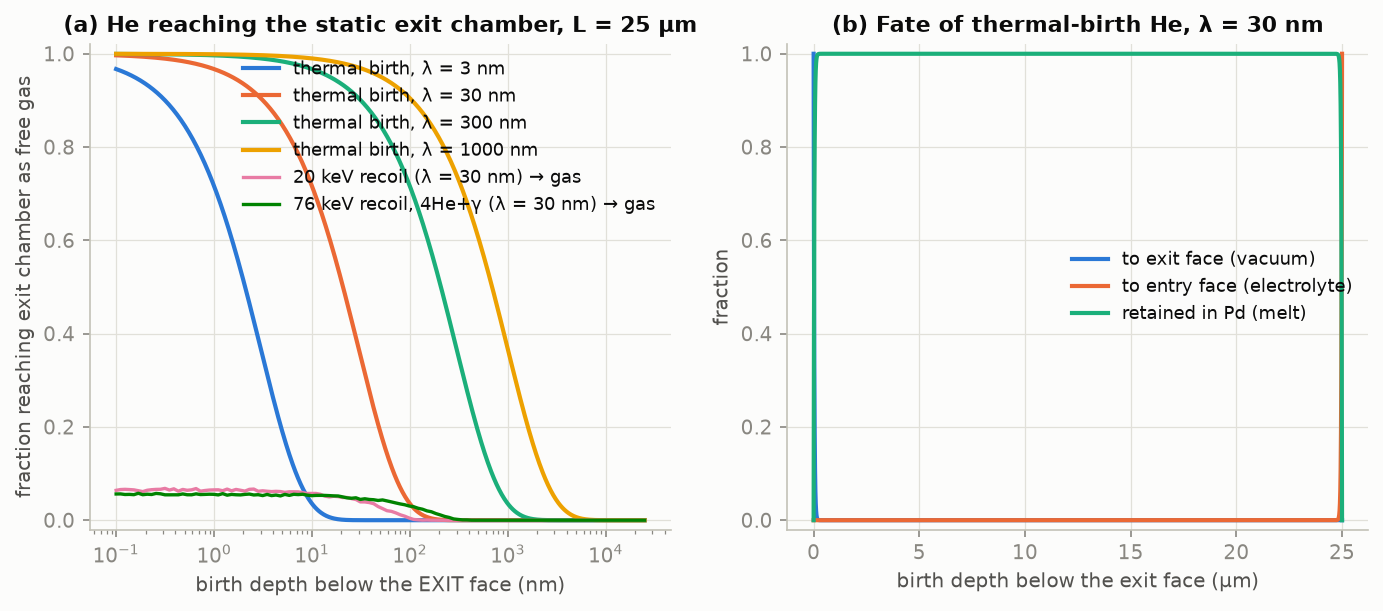
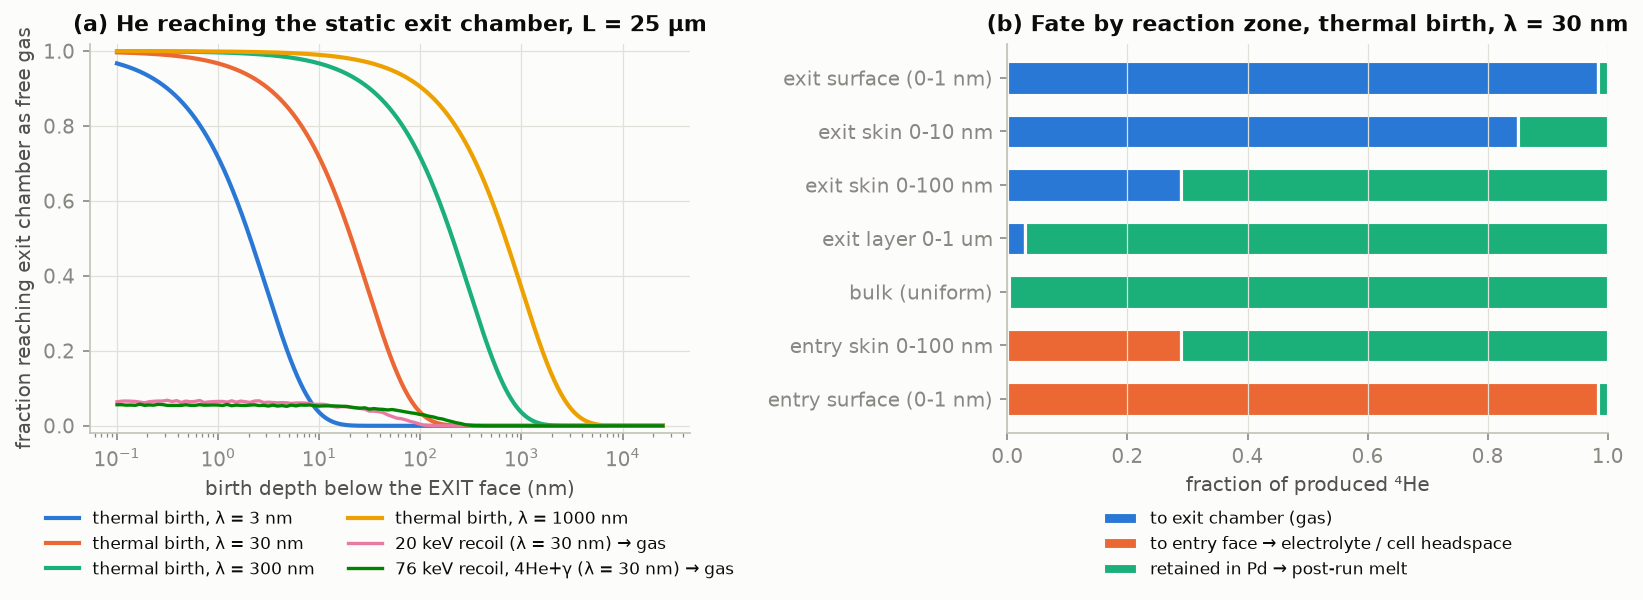
WIP: M8 update
Claude-Session: https://claude.ai/code/session_01UhtcJJuepH5roxPVCdThz4

Changed region(s): [[0.4664, 0.0, 0.9949, 0.96], [0.0, 0.03, 0.4975, 0.99], [0.9638, 0.9, 0.9949, 0.93]]

diff --git a/sim/m8_helium_accumulation.py b/sim/m8_helium_accumulation.py
@@ -462,17 +462,25 @@ ax[0].set_xlabel("birth depth below the EXIT face (nm)")
 ax[0].set_ylabel("fraction reaching exit chamber as free gas")
 ax[0].set_title("(a) He reaching the static exit chamber, L = 25 µm")
 ax[0].set_ylim(-0.02, 1.02)
-ax[0].legend(loc="upper right")
-z = np.linspace(0, L_NM, 1500)
-pe, pi = p_thermal(z, L_NM, 30.0)
-ax[1].plot(z / 1e3, pe, color=SERIES[0], label="to exit face (vacuum)")
-ax[1].plot(z / 1e3, pi, color=SERIES[1], label="to entry face (electrolyte)")
-ax[1].plot(z / 1e3, 1 - pe - pi, color=SERIES[2], label="retained in Pd (melt)")
-ax[1].set_xlabel("birth depth below the exit face (µm)")
-ax[1].set_ylabel("fraction")
-ax[1].set_title("(b) Fate of thermal-birth He, λ = 30 nm")
-ax[1].legend(loc="center right")
-ax[1].set_ylim(-0.02, 1.02)
+ax[0].legend(loc="upper center", bbox_to_anchor=(0.5, -0.16), ncol=2, fontsize=8)
+labs_b = [s_ for s_, _ in SCEN]
+yb = np.arange(len(labs_b))
+left = np.zeros(len(labs_b))
+for k, (key, col, nm) in enumerate([("exit_gas", SERIES[0], "to exit chamber (gas)"),
+                                    ("entry", SERIES[1], "to entry face → electrolyte / cell headspace"),
+                                    ("retained", SERIES[2], "retained in Pd → post-run melt")]):
+    w = np.array([RES[(25.0, 30.0, "thermal", s_)][key] for s_ in labs_b])
+    ax[1].barh(yb, w, left=left, color=col, height=0.62, edgecolor=SURF, linewidth=1.5, label=nm)
+    left += w
+ax[1].set_yticks(yb)
+ax[1].set_yticklabels(labs_b)
+ax[1].invert_yaxis()
+ax[1].set_xlim(0, 1)
+ax[1].set_xlabel("fraction of produced ⁴He")
+ax[1].set_title("(b) Fate by reaction zone, thermal birth, λ = 30 nm")
+ax[1].grid(axis="y", visible=False)
+ax[1].legend(loc="upper center", bbox_to_anchor=(0.5, -0.16), ncol=1, fontsize=8)
+fig.tight_layout()
 savefig(fig, "m8_release_vs_depth.png")
 
 # --- Figure 2: scenario summary (thermal lambda band + 76 keV)
@@ -488,7 +496,11 @@ cl = lambda a: np.clip(a, FLOOR, None)
 ax.barh(yy + 0.2, cl(th), height=0.36, color=SERIES[0], label="thermal birth, λ = 30 nm (whisker: λ = 3–300 nm)")
 ax.errorbar(cl(th), yy + 0.2, xerr=[cl(th) - cl(lo_), cl(hi_) - cl(th)], fmt="none",
             ecolor=INK2, elinewidth=1, capsize=2)
-ax.barh(yy - 0.2, cl(r76), height=0.36, color=SERIES[5], label="76 keV recoil (4He+γ), λ = 30 nm")
+ax.barh(yy - 0.2, cl(r76), height=0.36, color=SERIES[1], label="76 keV recoil (4He+γ), λ = 30 nm")
+for i_, v_ in enumerate(th):
+    if v_ < FLOOR:
+        ax.text(FLOOR * 2, yy[i_], "blind (< 1e-7): He goes to the electrolyte or stays in Pd",
+                va="center", fontsize=8, color=INK2)
 ax.set_xscale("log")
 ax.set_xlim(FLOOR, 1.5)
 ax.set_yticks(yy)
@@ -496,7 +508,7 @@ ax.set_yticklabels(labs)
 ax.invert_yaxis()
 ax.set_xlabel(f"fraction of produced 4He reaching the exit chamber as gas (floor {FLOOR:.0e})")
 ax.set_title("Release to the static exit chamber by reaction-zone location (L = 25 µm)")
-ax.legend(loc="lower right")
+ax.legend(loc="upper center", bbox_to_anchor=(0.45, -0.14), ncol=2)
 savefig(fig, "m8_release_scenarios.png")
 
 # ======================================================== 5. skin accumulation
@@ -893,25 +905,6 @@ say("ADR-002 arithmetic check: ADR says '~1e15 atoms per mJ'. Correct: 1 mJ = "
     f"{HE_PER_J*1e-3:.2e} He; the calorimetric floor 5-60 mW x 1 day = "
     f"{5e-3*DAY*HE_PER_J:.1e}-{60e-3*DAY*HE_PER_J:.1e} He.")
 
-# --- Figure 6: MD vs time
-fig, ax = plt.subplots(figsize=(8.6, 4.8))
-tt = np.logspace(np.log10(0.1), np.log10(30), 120)
-for i, mode in enumerate(MODES):
-    p = [md_atoms(mode, t * DAY) / (t * DAY) / HE_PER_J for t in tt]
-    ax.plot(tt, p, color=SERIES[i], label=mode)
-pmelt = 5 * melt_sig / (tt * DAY) / HE_PER_J
-ax.plot(tt, pmelt, color=SERIES[5], lw=1.6, label="post-run melt (retained He)")
-ax.axhspan(CAL_R6[0], CAL_R6[1], color=SERIES[7], alpha=0.10, lw=0)
-ax.axhline(CAL_R5, color=SERIES[7], lw=1)
-ax.text(0.11, 7e-3, "calorimetry: 5 mW (R5), 20–60 mW band (R6)", color=INK2, fontsize=8)
-ax.set_xscale("log"); ax.set_yscale("log")
-ax.set_xlabel("static accumulation time (days)")
-ax.set_ylabel("5σ minimum detectable power at 23.85 MeV/He (W)")
-ax.set_title("⁴He-equivalent detection floor, f_release = 1 (divide by f for real skins)")
-ax.set_ylim(1e-11, 1e-1)
-ax.legend(loc="upper right", fontsize=7.8)
-savefig(fig, "m8_mdp_vs_time.png")
-
 # ====================================================== 9. geometry numbers
 hdr("9. GEOMETRY NUMBERS")
 say("Instrument floor vs exit-chamber volume (H1 chain; background term unchanged):")
@@ -934,6 +927,98 @@ for j in JLIST:
         f"30 d {2*NEG_MASS[j][2]:8.3g} g")
 say("Recommended: ~50-100 g St 707/St 172 (CapaciTorr D400-D2000 class) supports 7-day windows")
 say("  at <=1-2 mA/cm2; higher flux needs dynamic pumping, shorter windows or a Pd-Ag permeator.")
+
+# ============================================ 10. ADR-002 rev 2: 1 atm D2 front
+hdr("10. ADR-002 REV 2 VARIANT: PRESSURE-BALANCED FRONT (~1 atm D2), PER-CELL SEALED")
+V_F = 0.030          # L, sealed front volume per cell (range 0.01-0.1)
+P_F = 1013.0         # mbar D2
+V_AL = 1.0e-3        # L, aliquot pipette on the front
+F_AL = V_AL / V_F
+n_front = P_F * V_F * ATOMS_PER_MBAR_L
+say(f"Front volume {V_F*1e3:.0f} cm3 at {P_F:.0f} mbar D2: inventory {n_front:.2e} molecules "
+    f"({P_F*V_F:.1f} mbar L); aliquot pipette {V_AL*1e3:.0f} cm3 -> fraction {F_AL:.3f}")
+say("Permeation-driven pressure rise if nothing removes D2 (A = 3 cm2):")
+for J in [1e14, 1e15, 1e16, 1e17]:
+    nd2 = J * A_MEM / 2
+    dp = nd2 * DAY / (V_F * ATOMS_PER_MBAR_L)
+    say(f"  J = {J:.0e} D/cm2/s ({J*e_C*1e3:.2f} mA/cm2): +{dp:9.1f} mbar/day"
+        f" = {nd2*DAY/ATOMS_PER_MBAR_L:8.2f} mbar L/day to remove")
+PERM_PDAG = 2e-8     # mol/(m s Pa^0.5), Pd-23Ag near 350 C [BK]
+Jpd = PERM_PDAG / 100e-6 * np.sqrt(101325.0) * NA / 2 / 1e4   # D2 / cm2 / s
+say(f"Pd-Ag (100 um, ~350 C) at 1 atm upstream, vacuum downstream: {Jpd:.1e} D2/cm2/s ->"
+    f" {1e16*A_MEM/2/Jpd:.1e} cm2 removes J = 1e16 -> a ~1 cm2 element with a downstream valve"
+    " is a He-tight pressure regulator")
+say("He-tight fill/make-up: D2 carrying x_He of helium adds per 100 mbar step in the front:")
+for xhe, lab in [(1e-6, "cylinder D2, 1 ppm He"), (1e-9, "1 ppb"), (1e-15, "Pd-Ag purified (seal-leak limited)")]:
+    n = 100 * V_F * ATOMS_PER_MBAR_L * xhe
+    say(f"  {lab:36s}: {n:9.2e} He per step = {n/HE_PER_J:8.1e} J-equivalent")
+n0 = n_front * 1e-6
+say(f"  initial 1 atm fill with 1 ppm He: {n0:.1e} He offset (= 1 mW for {n0/(1e-3*HE_PER_J)/DAY:.0f} d);"
+    f" 2 % aliquot precision on it -> sigma {0.02*n0:.1e} atoms")
+R_GAS = {"20 keV": 1.04, "76 keV": 3.23}   # mm, CATIMA (H target, per atom) in 1 atm D2 at 295 K
+if HAVE_CATIMA:
+    _h = catima.get_material(1)
+    nD = 2 * 101325 / (kB * T_ROOM) * 1e-6
+    for lab, E in [("20 keV", 0.020), ("76 keV", E_R_GAMMA / 1e3)]:
+        pr = catima.Projectile(4.001506, 2)
+        pr.T(E / 4.001506)
+        R_GAS[lab] = catima.range(pr, _h) / 1.008 * NA / nD * 10
+for lab, r in R_GAS.items():
+    say(f"  {lab} recoil He range in 1 atm D2: {r:.1f} mm -> ballistic recoils thermalise in the gas"
+        " (become measurable) if the screen/detectors are farther than this")
+P_RES_F = 3 * P_RES   # walls see mbar-level D2 from aliquots
+MODES_F = {
+    "H1f HR-QMS, 1 cm3 aliquot of 1 atm front": dict(
+        inst=MDPP_TYP * V_A * ATOMS_PER_MBAR_L / F_AL,
+        intf=0.3 * R_S * peak_transmission(500, 1e-3) * P_RES_F * V_A * ATOMS_PER_MBAR_L / F_AL),
+    "S1f external sector MS, 1 cm3 aliquot": dict(
+        inst=np.hypot(3e5, 1e6) / F_AL, intf=0.0),
+}
+say(f"Getter per aliquot: {P_F*V_AL:.2f} mbar L D2 = {P_F*V_AL/Q_MAX:.3f} g at the embrittlement limit;"
+    f" residual D2 after cleanup ~{P_RES_F:.1e} mbar (HR-QMS limit {REQ[ANALYZERS[1][0]][1]:.1e})")
+bud_f = [x for x in BUD["recommended"][0] if not x[0].startswith("NEG")]
+sigB_f = np.sqrt(sum(x[2] ** 2 for x in bud_f))
+say(f"Background (recommended build, no NEG in front): {sum(x[1] for x in bud_f):.2e} /day, sigma {sigB_f:.2e} /day")
+MD_F = {}
+say(f"{'mode':44s} {'sig_inst':>9s} | {'MD power (W), f = 1':>28s}")
+say(f"{'':44s} {'(atoms)':>9s} | {'1 d':>9s} {'7 d':>9s} {'30 d':>9s}")
+for mode, m in MODES_F.items():
+    f = lambda t: 5 * np.sqrt(m["inst"] ** 2 + m["intf"] ** 2 + (sigB_f / DAY * t) ** 2)
+    m["fun"] = f
+    ps = [f(t * DAY) / (t * DAY) / HE_PER_J for t in [1, 7, 30]]
+    MD_F[mode] = ps
+    say(f"{mode:44s} {m['inst']:9.1e} | " + " ".join(f"{p:9.1e}" for p in ps))
+for P in [1e-6, 1e-3]:
+    c = P * HE_PER_J * 7 * DAY / n_front
+    say(f"  {P:g} W for 7 d -> He/D2 in front = {c:.1e} ({c*1e9:.2g} ppb)")
+
+# --- Figure 6: MD vs time (UHV/NEG variant and rev-2 front)
+fig, axs = plt.subplots(1, 2, figsize=(12.5, 4.8), sharey=True)
+tt = np.logspace(np.log10(0.1), np.log10(30), 120)
+ax = axs[0]
+for i, mode in enumerate(MODES):
+    p = [md_atoms(mode, t * DAY) / (t * DAY) / HE_PER_J for t in tt]
+    ax.plot(tt, p, color=SERIES[i], label=mode)
+pmelt = 5 * melt_sig / (tt * DAY) / HE_PER_J
+ax.plot(tt, pmelt, color=SERIES[5], lw=1.6, label="post-run melt (retained He)")
+ax.set_title("(a) UHV exit chamber, NEG static mode (task brief)")
+ax2 = axs[1]
+for i, (mode, m) in enumerate(MODES_F.items()):
+    p = [m["fun"](t * DAY) / (t * DAY) / HE_PER_J for t in tt]
+    ax2.plot(tt, p, color=SERIES[2 + i], label=mode)
+ax2.plot(tt, pmelt, color=SERIES[5], lw=1.6, label="post-run melt (retained He)")
+ax2.set_title("(b) ADR-002 rev 2: sealed 30 cm³ front at 1 atm D₂")
+for a in axs:
+    a.axhspan(CAL_R6[0], CAL_R6[1], color=SERIES[7], alpha=0.10, lw=0)
+    a.axhline(CAL_R5, color=SERIES[7], lw=1)
+    a.text(1.2, 3.0e-2, "calorimetry floor: 5 mW (R5) / 20–60 mW (R6)", color=INK2, fontsize=8)
+    a.set_xscale("log"); a.set_yscale("log")
+    a.set_xlabel("static accumulation time (days)")
+    a.set_ylim(1e-11, 1e-1)
+    a.legend(loc="upper center", bbox_to_anchor=(0.5, -0.14), ncol=2, fontsize=7.8)
+axs[0].set_ylabel("5σ min. detectable power (W), f = 1")
+fig.tight_layout()
+savefig(fig, "m8_mdp_vs_time.png")
 
 with open(os.path.join(OUT, "m8_output.txt"), "w") as fh:
     fh.write("\n".join(LOG) + "\n")
